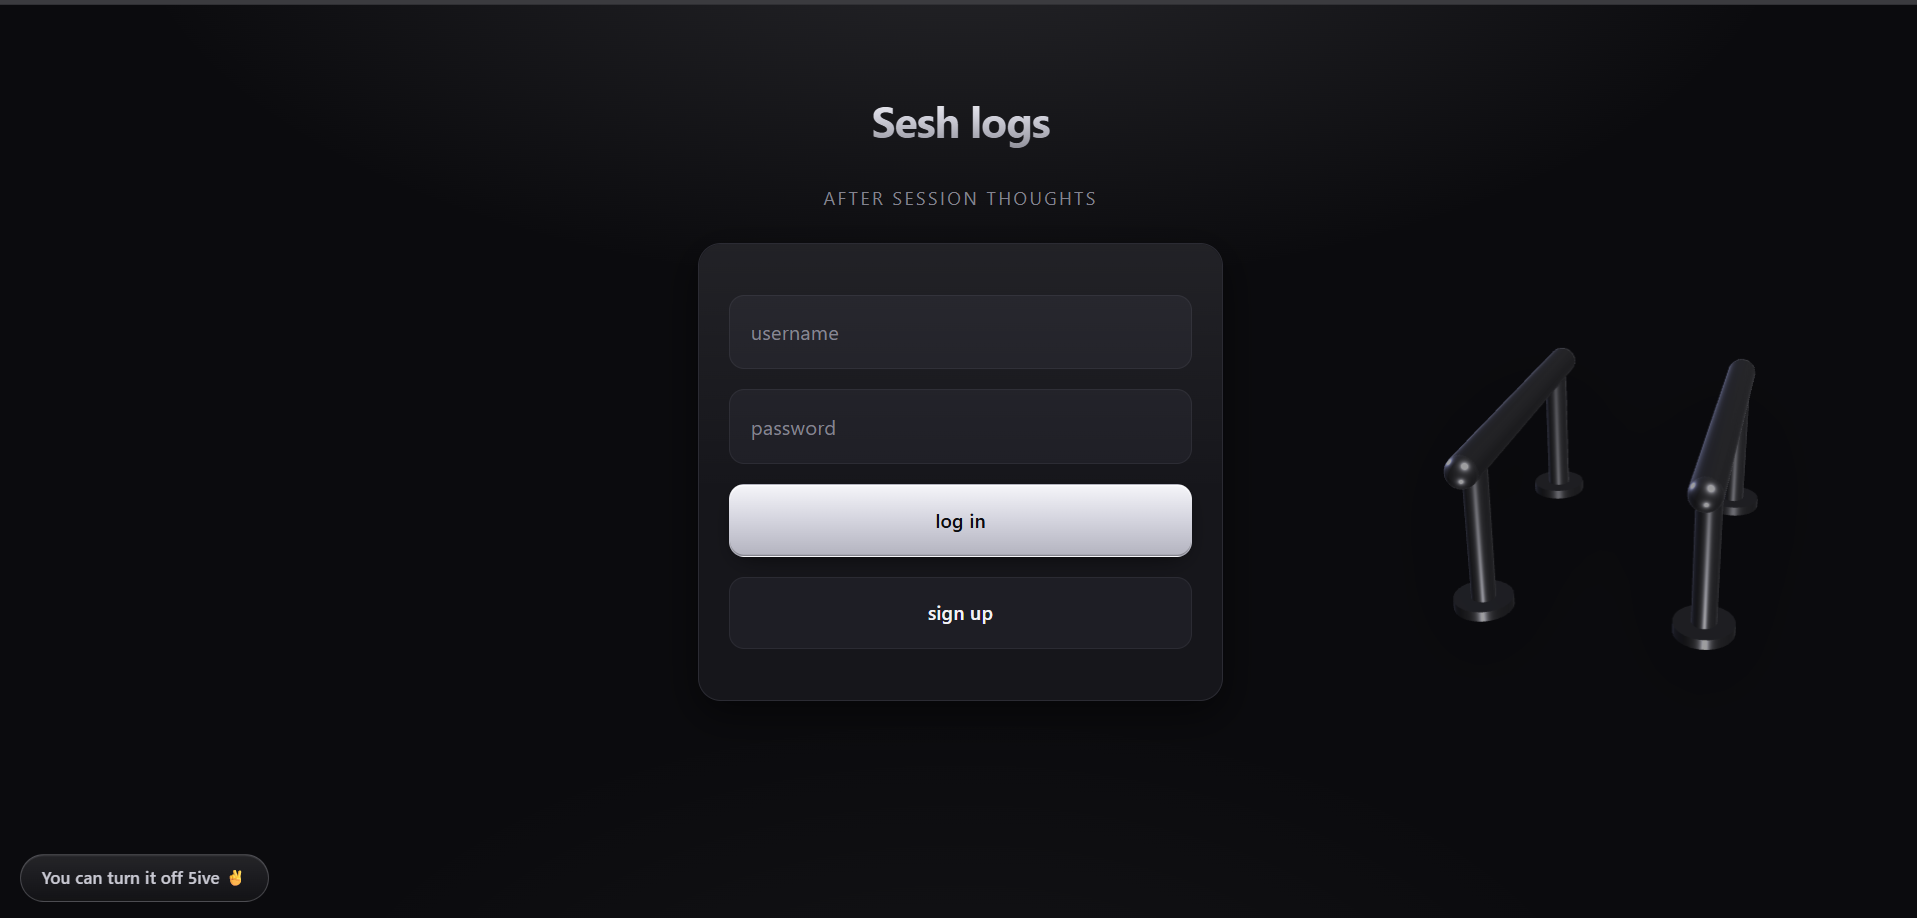
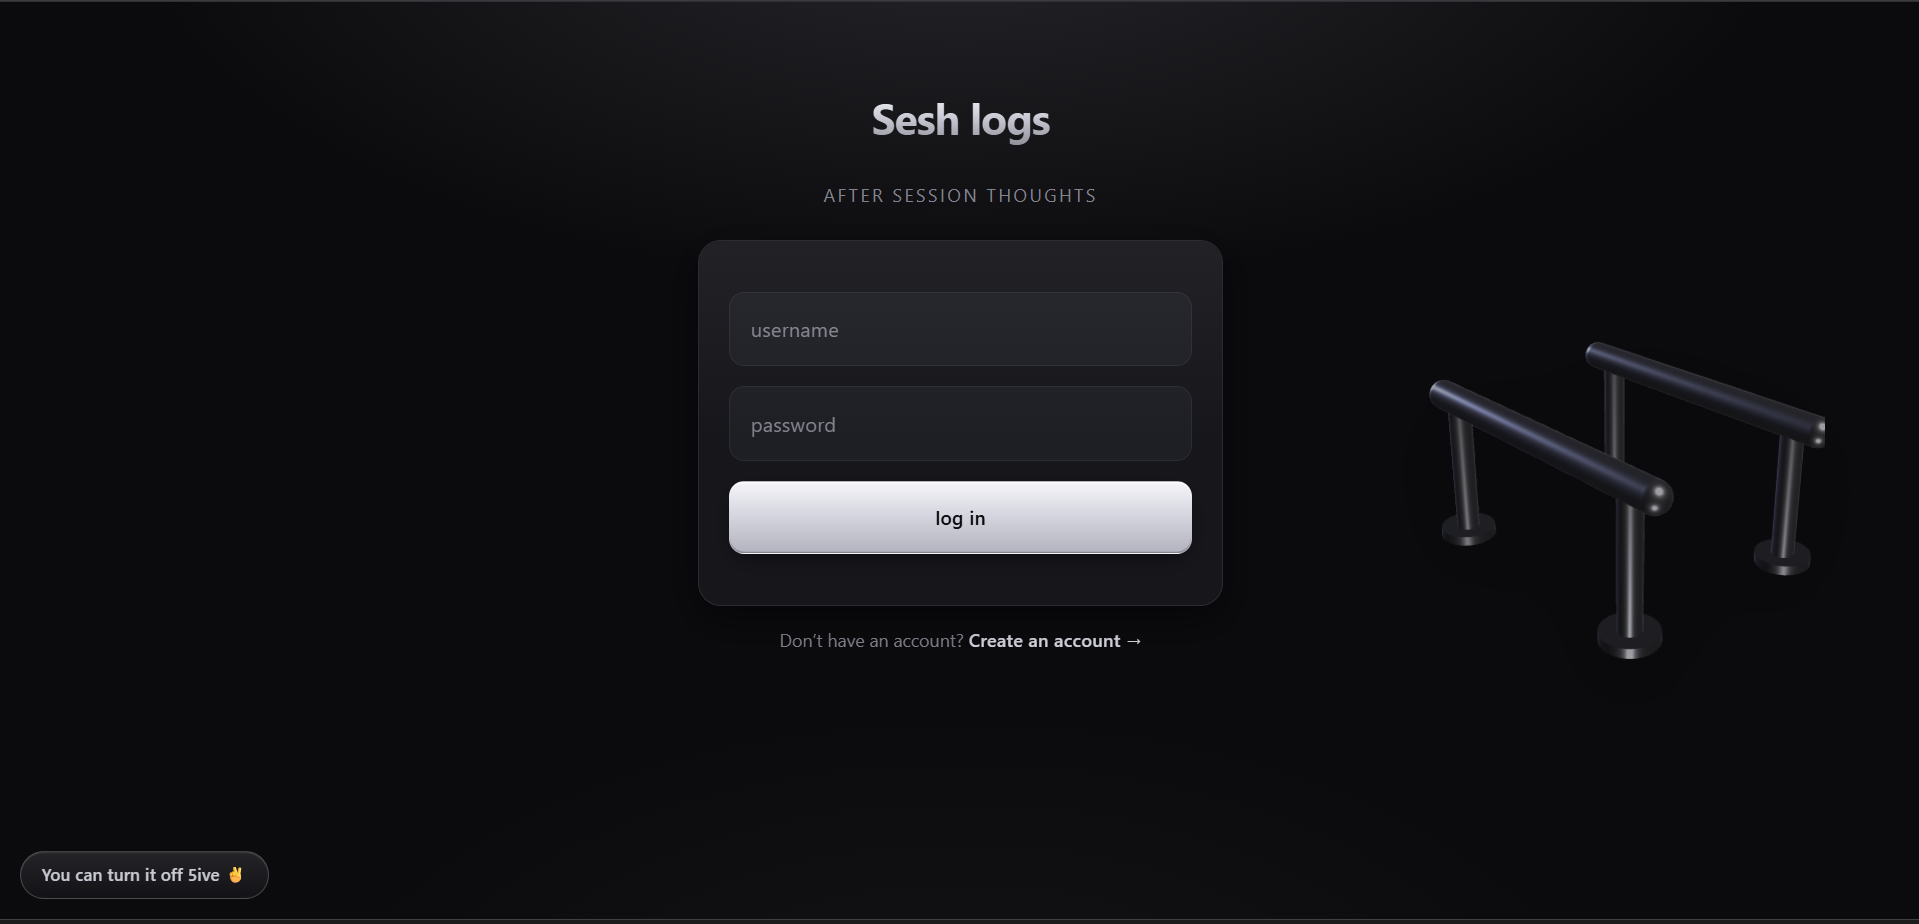
updating readme

diff --git a/frontend/src/ModelViewer.jsx b/frontend/src/ModelViewer.jsx
@@ -26,14 +26,14 @@ export default function ModelViewer() {
 
   return (
     <>
-      <button
+       {/* <button
         type="button"
         className="model-toggle"
         aria-pressed={on}
         onClick={() => setOn((v) => !v)}
       >
       {on ? 'You can turn it off 5ive ✌' : '👀👀👀👀'}
-      </button>
+      </button>  */}
       {on && (
         <div className="model-stage" aria-hidden="true">
           <canvas ref={canvasRef} className="model-canvas"></canvas>

diff --git a/README.md b/README.md
@@ -7,8 +7,7 @@ A private workout-reflection tracker with a consistency streak. Log a session an
 > Heads-up: the backend runs on a free tier that sleeps after ~15 min idle, so the **first** request after a while can take ~30–50s to wake. After that it's snappy.
 
 <!-- TODO: add a screenshot — drop an image in the repo and reference it here, e.g. ![Sesh logs](./screenshot.png) -->
-![Sesh logs](image.png)
-
+![Sesh-logs](image.png)
 ## Features
 
 - **Accounts** — sign up and log in; each user only ever sees their own sessions.
